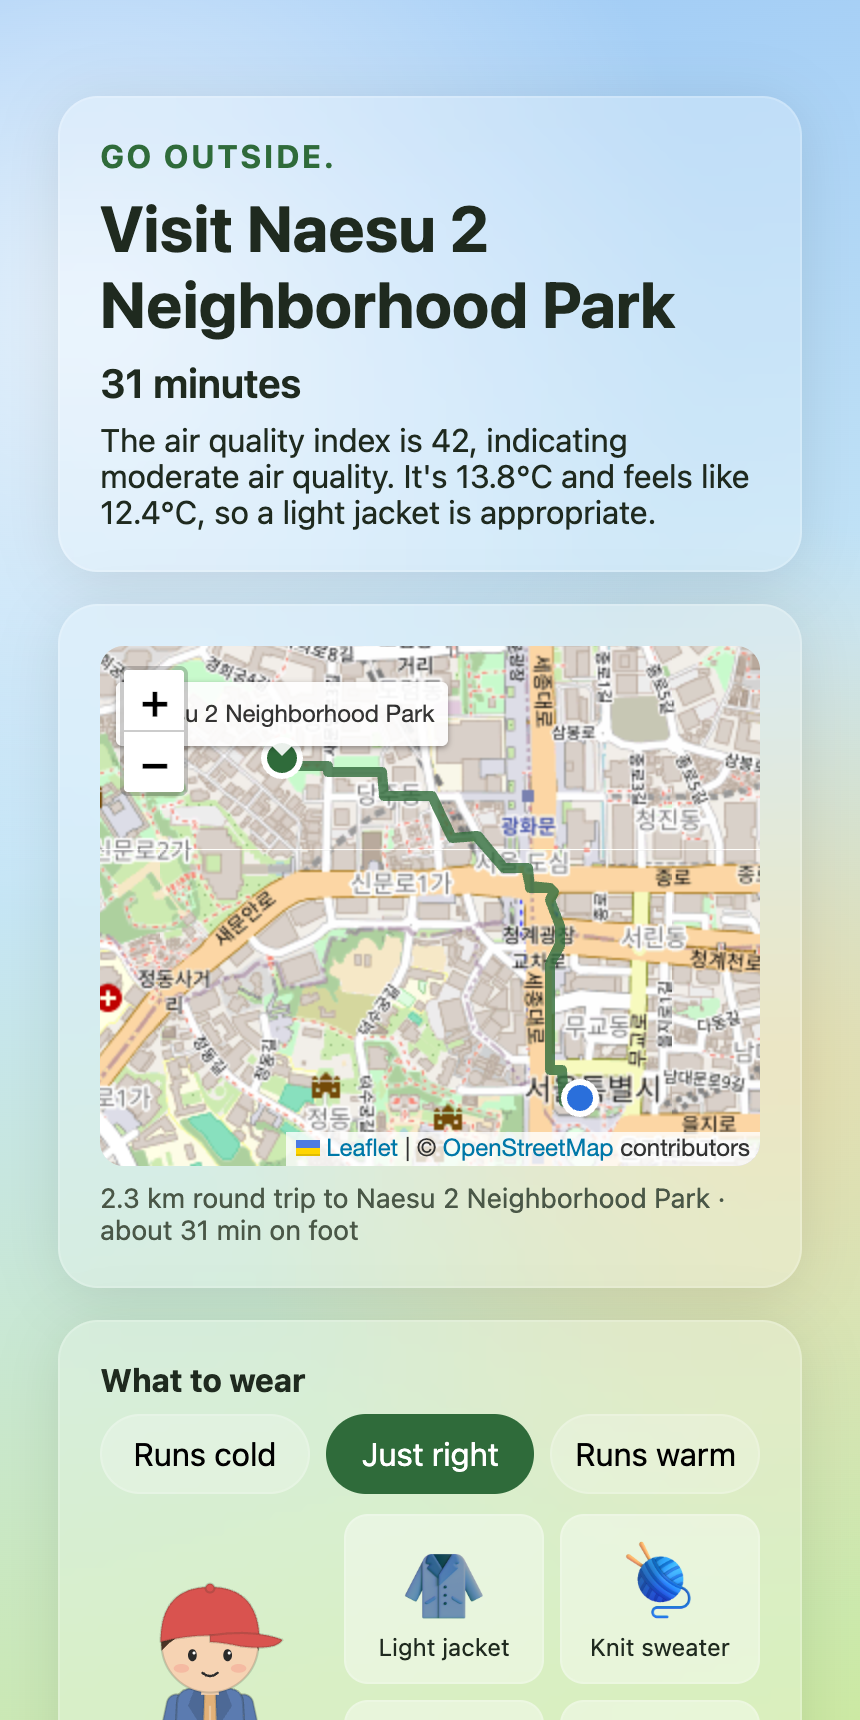
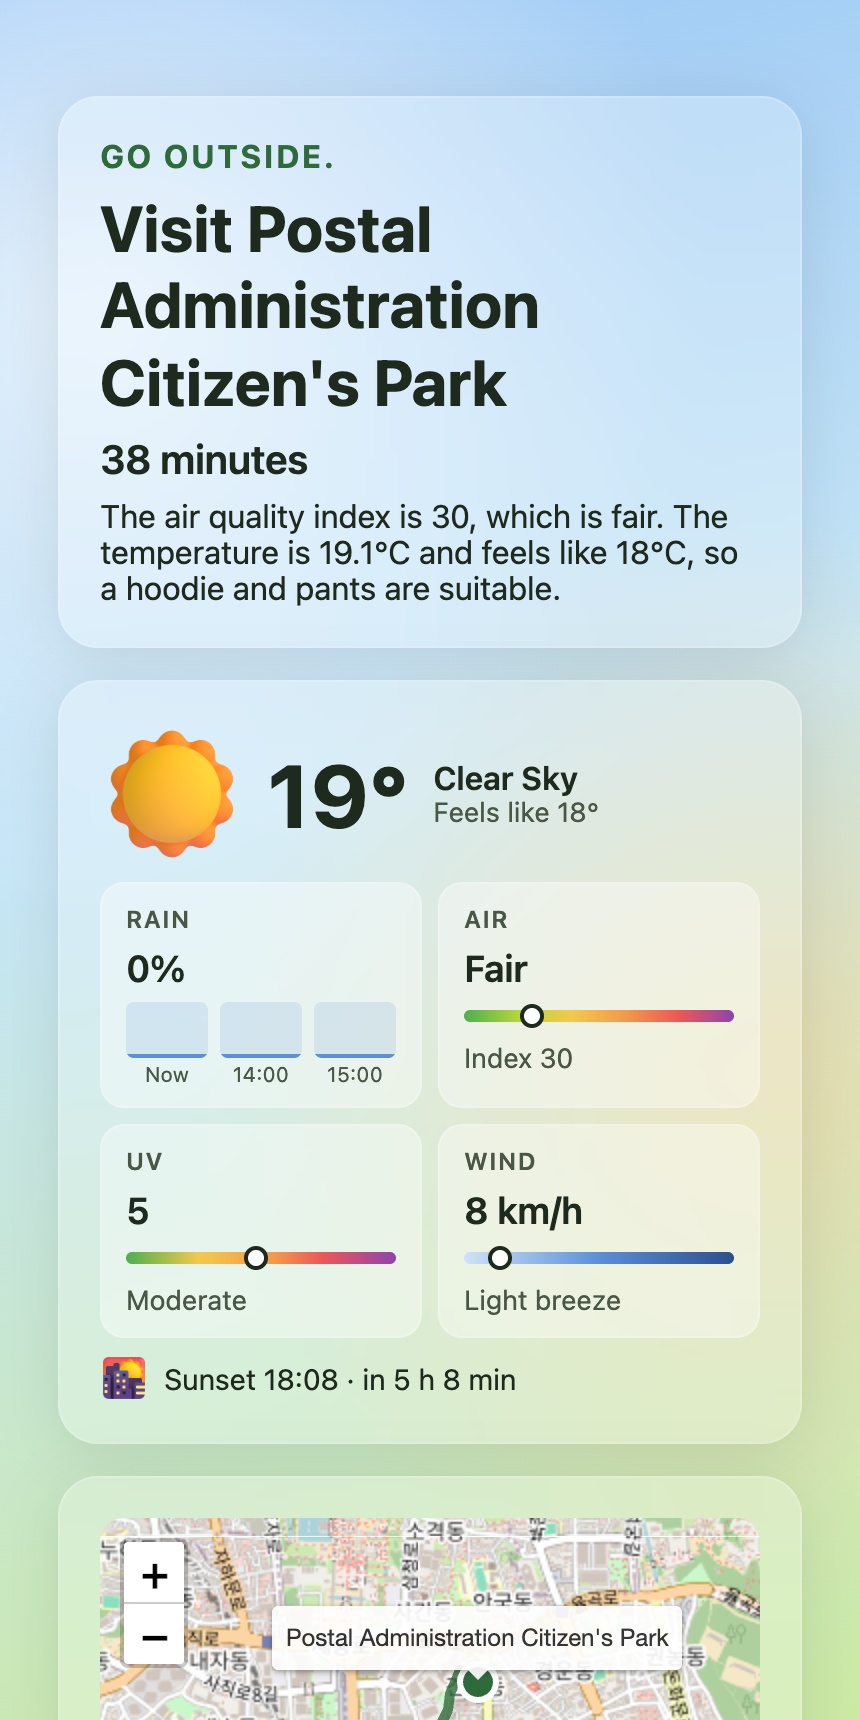
docs: refresh the result screenshot
- Show the weather panel and a title that matches the mapped park

Entire-Checkpoint: 01M47NYK2MNYR40XJRVGPVHDC6

diff --git a/README.md b/README.md
@@ -8,7 +8,7 @@ One tap, one suggestion, then put your phone away.
 
 <p align="center">
   <img src="docs/home.png" width="250" alt="Home screen with the time slider">
-  <img src="docs/result.png" width="250" alt="Suggested park walk with a round-trip route on the map">
+  <img src="docs/result.png" width="250" alt="Suggested park walk with the weather panel and a round-trip route on the map">
   <img src="docs/outfit-cold.png" width="250" alt="Outfit for people who run cold, shown on an avatar and item cards">
 </p>
 
